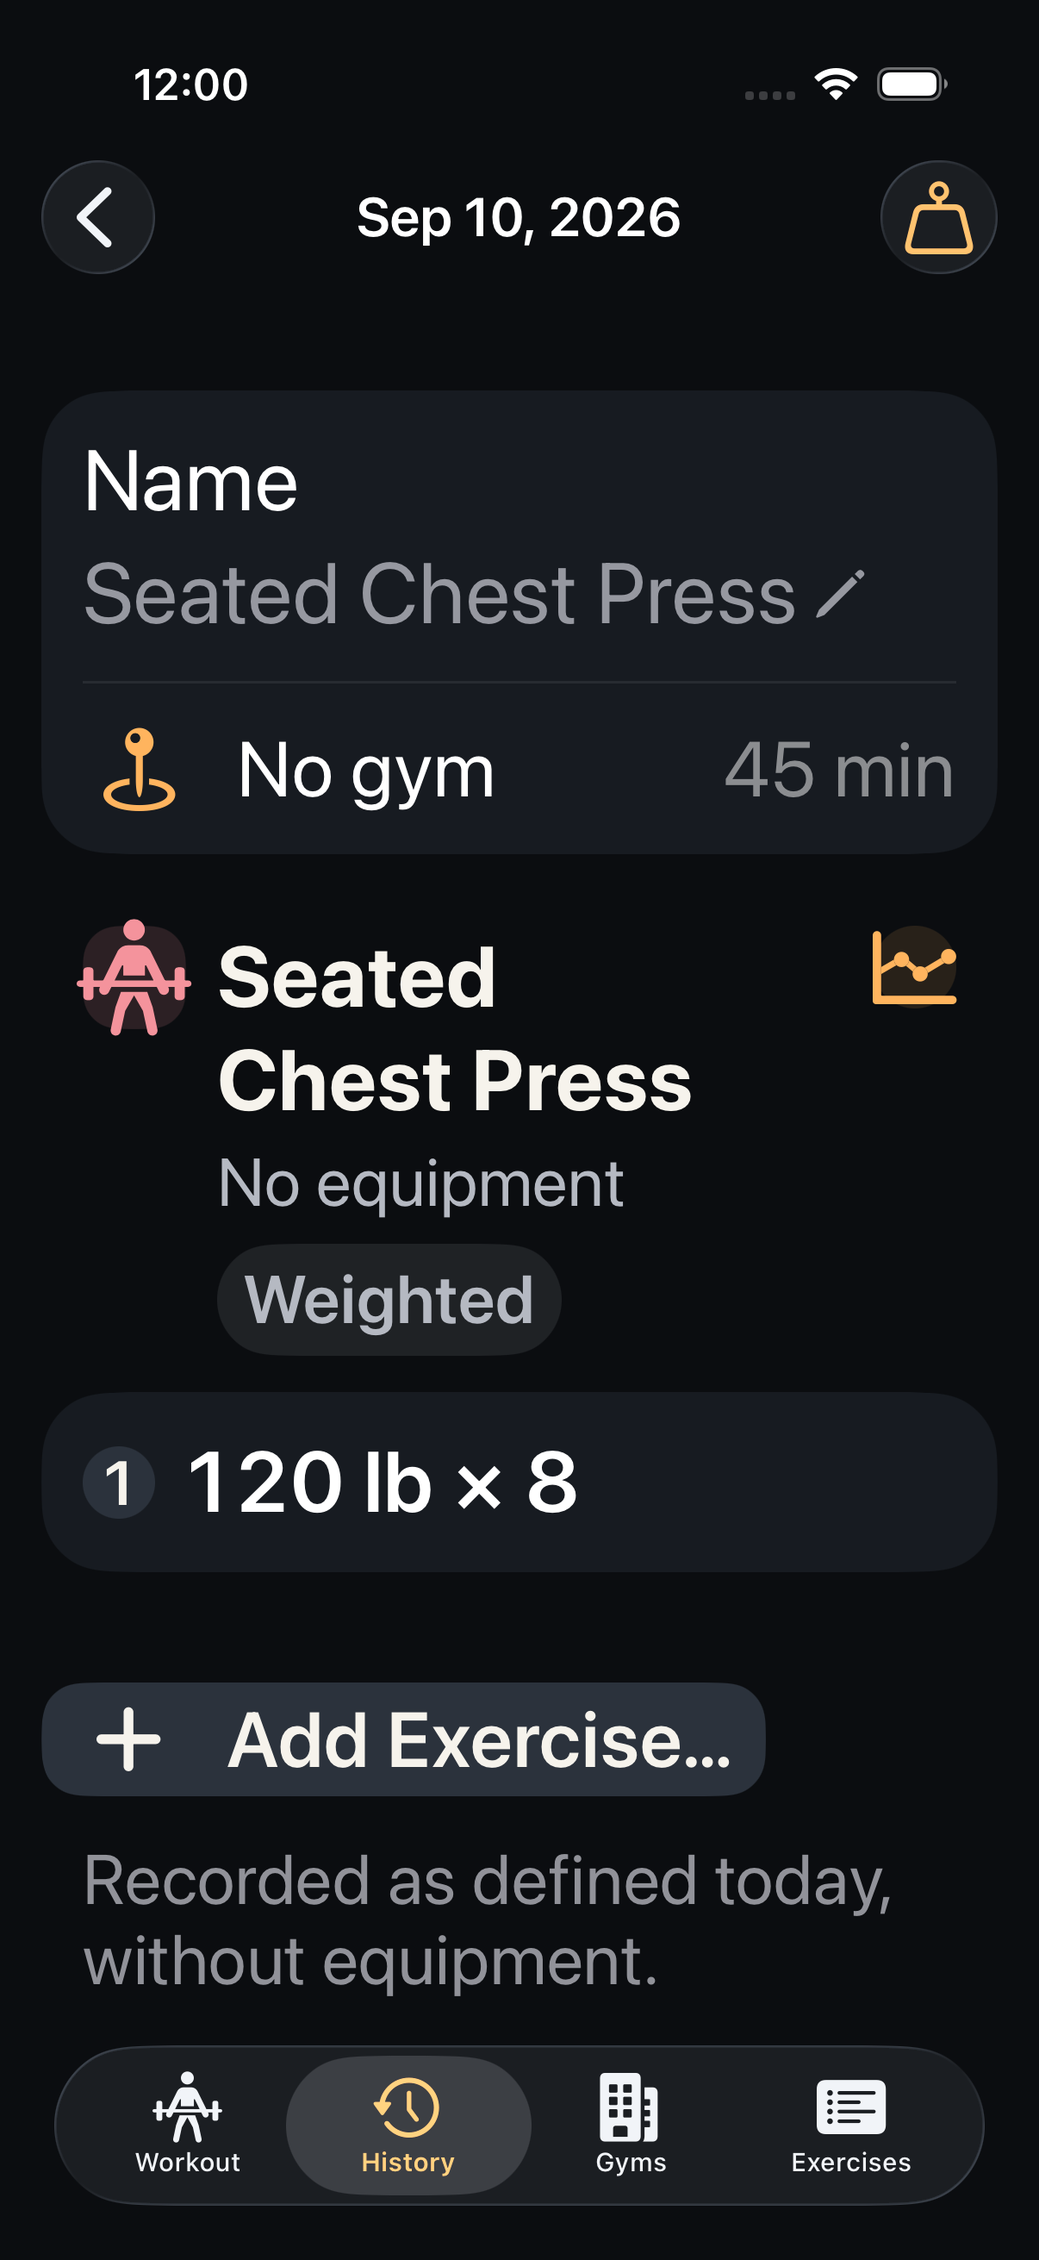
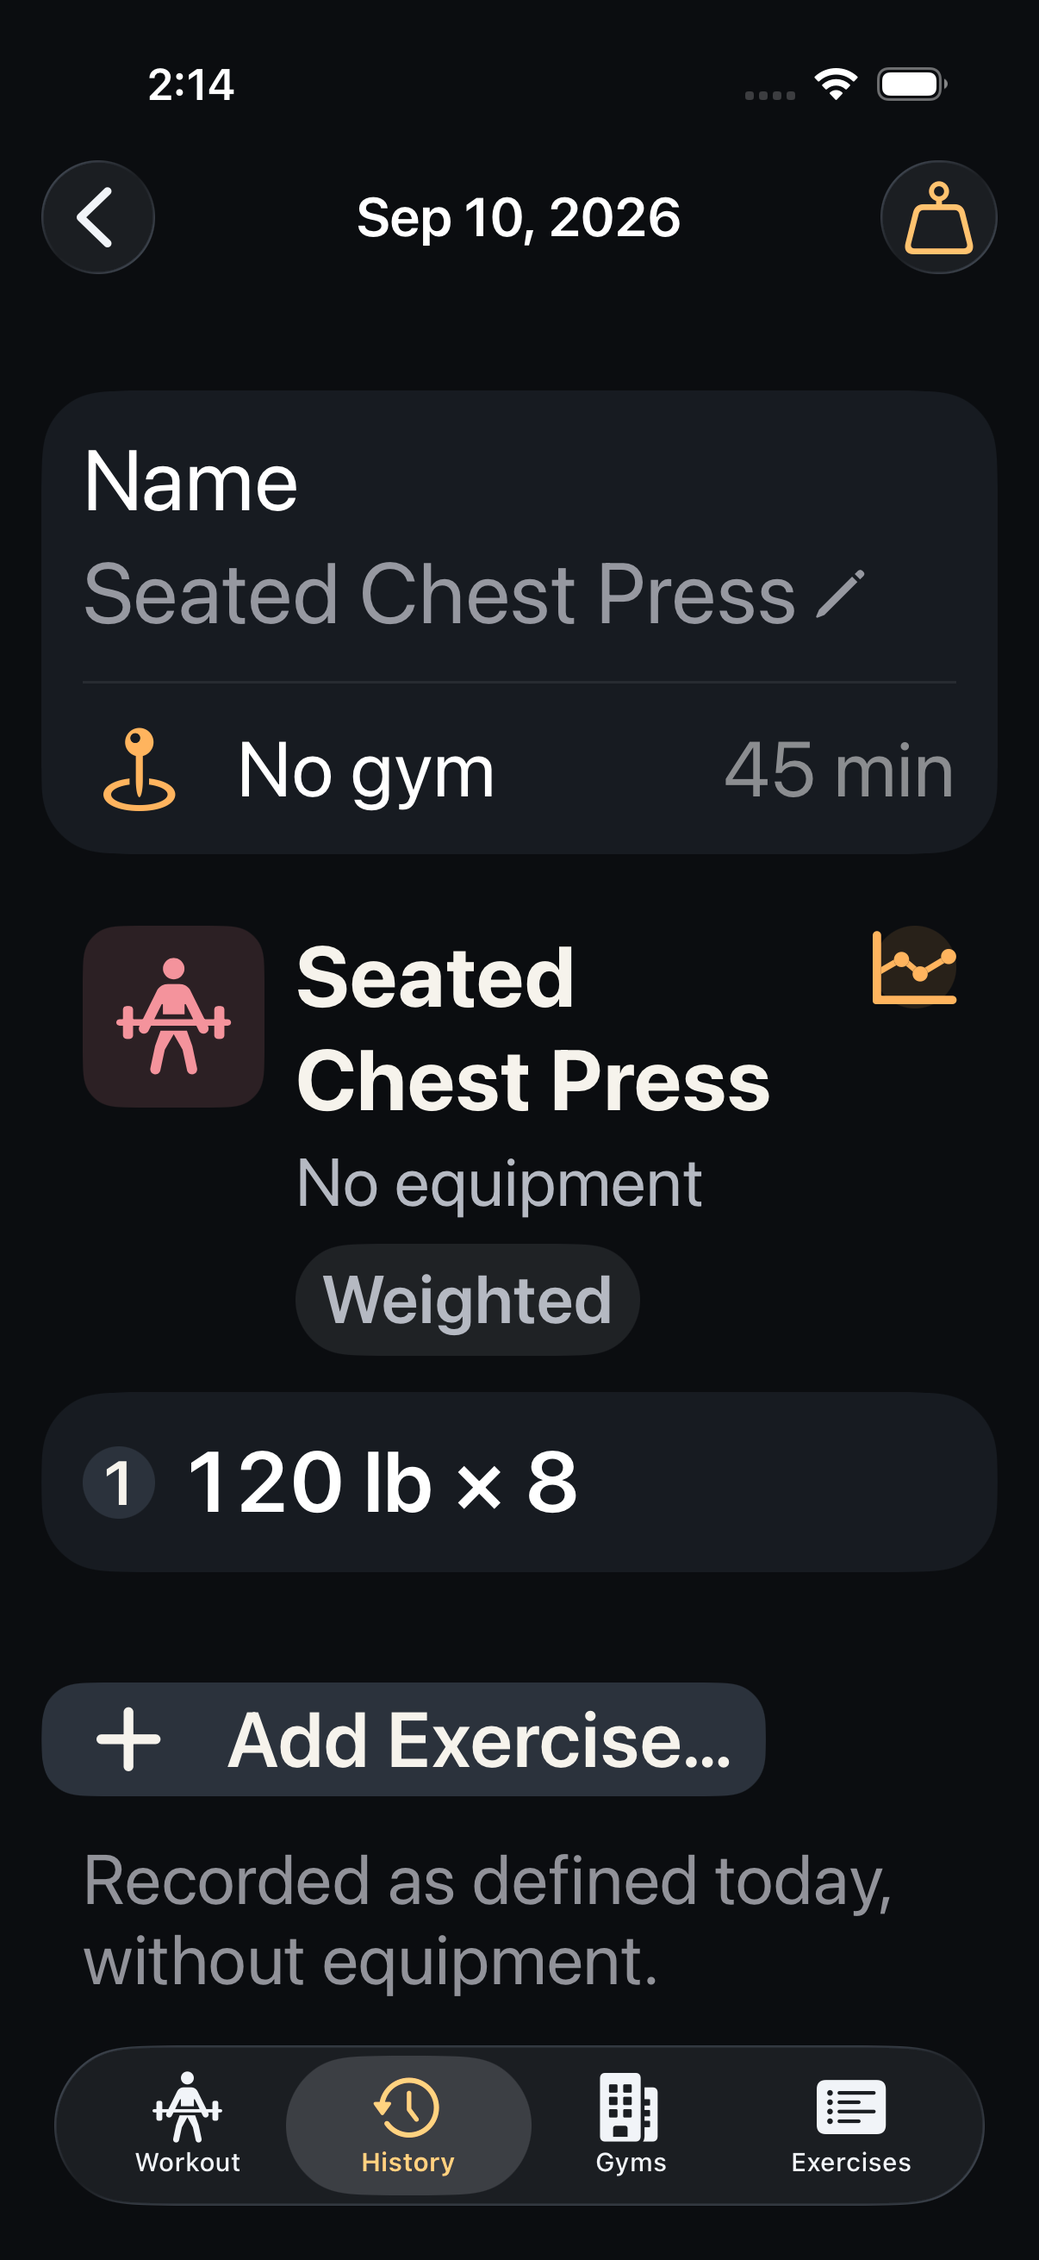
UI redesign 08: Exercises — MuscleIcon + equipment/load-type chips on every exercise row; themed pickers (exercise, add-by-machine, machine, bar) with .secondary/.primary actions; MuscleIcon's tile scales with Dynamic Type; AXL capture
ExerciseRow (shared by the tab, the picker and a machine's exercise list): icon, name, the body
area still said as a caption, tags as chips, the load type an accent chip when not the default;
chips stack at accessibility sizes and never break mid-word. Toolbar Save/Add/Done stay toolbar
buttons; "Use this bar" is the one in-list .primary. No new copy. Ticket file, screenshots/08/.

Verification: gates 16/16; after the AXL fixes 6/6.

Claude-Session: https://claude.ai/code/session_017NcHt6gES8nUD5LYcK9j4B

Changed region(s): [[0.0614, 0.4016, 0.7363, 0.587], [0.1227, 0.0309, 0.2454, 0.0618]]

diff --git a/WorkoutTracker/Features/ActiveWorkout/ExercisePickerSheet.swift b/WorkoutTracker/Features/ActiveWorkout/ExercisePickerSheet.swift
@@ -49,13 +49,19 @@ struct ExercisePickerSheet: View {
                         .accessibilityIdentifier("createExerciseFromSearch")
                     }
                 }
+                .listRowBackground(Theme.card)
                 Section {
                     Button("New Exercise…", systemImage: "plus") {
                         creating = NewExerciseRequest(name: trimmedSearch)
                     }
+                    .buttonStyle(.secondary)
                     .accessibilityIdentifier("newExercise")
+                    .listRowBackground(Color.clear)
+                    .listRowInsets(EdgeInsets(top: 8, leading: 0, bottom: 8, trailing: 0))
                 }
             }
+            .scrollContentBackground(.hidden)
+            .background(Theme.background)
             .searchable(text: $searchText, prompt: "Search exercises")
             .navigationTitle("Add Exercise")
             .navigationBarTitleDisplayMode(.inline)
@@ -102,29 +108,44 @@ struct ExerciseRow: View {
             tags: exercise.equipmentTypeTags, bodyArea: exercise.muscleGroup)
     }
 
-    private var subtitle: String {
-        ([bodyArea].compactMap { $0 } + tags.map(\.label)).joined(separator: " · ")
-    }
+    /// UI redesign ticket 08: the body area as a `MuscleIcon` (its glyph and
+    /// colour) beside the name, the equipment tags as chips, the load type as
+    /// a chip when it is not the default. The body area is still SAID in the
+    /// caption — the icon is accessibility-hidden — so a filtered list keeps
+    /// explaining itself to VoiceOver as it did. At accessibility sizes the
+    /// chips stack under the name (a chip never breaks mid-word) and the
+    /// load-type chip joins that column instead of squeezing the row.
+    @Environment(\.dynamicTypeSize) private var dynamicTypeSize
 
     var body: some View {
-        HStack {
-            VStack(alignment: .leading, spacing: 3) {
+        let stacked = dynamicTypeSize.isAccessibilitySize
+        let chips = stacked
+            ? AnyLayout(VStackLayout(alignment: .leading, spacing: 6))
+            : AnyLayout(HStackLayout(spacing: 6))
+        HStack(spacing: Theme.Space.medium) {
+            MuscleIcon(group: bodyArea)
+            VStack(alignment: .leading, spacing: 4) {
                 Text(name)
-                    .font(.body.weight(.medium))
-                Text(subtitle)
-                    .font(.caption)
-                    .foregroundStyle(.secondary)
+                    .font(Theme.cardTitle)
+                chips {
+                    if let bodyArea {
+                        Text(bodyArea)
+                            .font(.caption)
+                            .foregroundStyle(Theme.secondary)
+                    }
+                    ForEach(tags) { tag in
+                        Chip { Text(tag.label).fixedSize() }
+                    }
+                    if stacked, loadType != .weighted {
+                        Chip(tint: Theme.accent) { Text(loadType.badge).fixedSize() }
+                    }
+                }
             }
-            Spacer()
-            if loadType != .weighted {
-                Text(loadType.badge)
-                    .font(.caption2.weight(.semibold))
-                    .padding(.horizontal, 7)
-                    .padding(.vertical, 3)
-                    .background(Color(.tertiarySystemFill))
-                    .clipShape(Capsule())
-                    .foregroundStyle(.secondary)
+            Spacer(minLength: 0)
+            if !stacked, loadType != .weighted {
+                Chip(tint: Theme.accent) { Text(loadType.badge).fixedSize() }
             }
         }
+        .padding(.vertical, 2)
     }
 }

diff --git a/WorkoutTracker/Features/Exercises/ExercisesView.swift b/WorkoutTracker/Features/Exercises/ExercisesView.swift
@@ -54,13 +54,14 @@ struct ExercisesView: View {
                         HStack {
                             Label(filterSummary, systemImage: "line.3.horizontal.decrease.circle.fill")
                                 .font(.caption)
-                                .foregroundStyle(.secondary)
+                                .foregroundStyle(Theme.accent)
                             Spacer()
                             Button("Clear") { clearFilters() }
                                 .font(.caption.weight(.semibold))
                                 .accessibilityIdentifier("clearExerciseFilters")
                         }
                     }
+                    .listRowBackground(Theme.card)
                 }
                 Section {
                     ForEach(filtered) { exercise in
@@ -68,8 +69,8 @@ struct ExercisesView: View {
                             ExerciseRow(exercise: exercise)
                             if !exercise.isSeeded {
                                 Text("Custom")
-                                    .font(.caption2)
-                                    .foregroundStyle(.tertiary)
+                                    .font(Theme.label)
+                                    .foregroundStyle(Theme.tertiary)
                             }
                         }
                         .contextMenu {
@@ -98,14 +99,21 @@ struct ExercisesView: View {
                     }
                     if filtered.isEmpty {
                         Text("No exercises match")
-                            .foregroundStyle(.secondary)
+                            .foregroundStyle(Theme.secondary)
                             .accessibilityIdentifier("noExercisesMatch")
                     }
                     Button("Add Exercise…", systemImage: "plus") {
                         showingAddExercise = true
                     }
+                    .buttonStyle(.secondary)
+                    .listRowBackground(Color.clear)
+                    .listRowInsets(EdgeInsets(top: 8, leading: 0, bottom: 8, trailing: 0))
                 }
+                .listRowBackground(Theme.card)
+                .listRowSeparatorTint(Theme.hairline)
             }
+            .scrollContentBackground(.hidden)
+            .background(Theme.background)
             .searchable(text: $searchText, prompt: "Search exercises")
             .navigationTitle("Exercises")
             .toolbar {

diff --git a/WorkoutTracker/Features/ActiveWorkout/AddByMachineSheet.swift b/WorkoutTracker/Features/ActiveWorkout/AddByMachineSheet.swift
@@ -52,17 +52,23 @@ struct AddByMachineSheet: View {
                     }
                     if machines.isEmpty {
                         Text("No machines yet")
-                            .foregroundStyle(.secondary)
+                            .foregroundStyle(Theme.secondary)
                     }
                     Button("Add Machine…", systemImage: "plus") {
                         showingAddMachine = true
                     }
+                    .buttonStyle(.secondary)
+                    .listRowBackground(Color.clear)
+                    .listRowInsets(EdgeInsets(top: 8, leading: 0, bottom: 8, trailing: 0))
                 } header: {
                     if let gym {
                         Text("Machines at \(gym.name)")
                     }
                 }
+                .listRowBackground(Theme.card)
             }
+            .scrollContentBackground(.hidden)
+            .background(Theme.background)
             .navigationTitle("Add by Machine")
             .navigationBarTitleDisplayMode(.inline)
             .deleteMachineConfirmation($deletingMachine) { machine in
@@ -175,13 +181,19 @@ private struct MachineExerciseList: View {
                     .accessibilityIdentifier("createExerciseFromSearch")
                 }
             }
+            .listRowBackground(Theme.card)
             Section {
                 Button("New Exercise…", systemImage: "plus") {
                     creating = request(named: trimmedSearch)
                 }
+                .buttonStyle(.secondary)
                 .accessibilityIdentifier("newExercise")
+                .listRowBackground(Color.clear)
+                .listRowInsets(EdgeInsets(top: 8, leading: 0, bottom: 8, trailing: 0))
             }
         }
+        .scrollContentBackground(.hidden)
+        .background(Theme.background)
         .modifier(FullCatalogSearch(enabled: choice.linked == nil, text: $searchText))
         .navigationTitle(choice.linked == nil ? "Pick Exercise" : choice.machine.label)
         .navigationBarTitleDisplayMode(.inline)

diff --git a/WorkoutTracker/Features/ActiveWorkout/MachinePickerSheet.swift b/WorkoutTracker/Features/ActiveWorkout/MachinePickerSheet.swift
@@ -28,14 +28,18 @@ struct MachinePickerSheet: View {
                         }
                         if machines.isEmpty {
                             Text("No machines yet")
-                                .foregroundStyle(.secondary)
+                                .foregroundStyle(Theme.secondary)
                         }
                         Button("Add Machine…", systemImage: "plus") {
                             showingAddMachine = true
                         }
+                        .buttonStyle(.secondary)
+                        .listRowBackground(Color.clear)
+                        .listRowInsets(EdgeInsets(top: 8, leading: 0, bottom: 8, trailing: 0))
                     } header: {
                         Text("Machines at \(gym.name)")
                     }
+                    .listRowBackground(Theme.card)
                 }
 
                 Section {
@@ -86,7 +90,10 @@ struct MachinePickerSheet: View {
                         Text("A completed set locks equipment; a change continues in a new entry.")
                     }
                 }
+                .listRowBackground(Theme.card)
             }
+            .scrollContentBackground(.hidden)
+            .background(Theme.background)
             .navigationTitle("Equipment")
             .navigationBarTitleDisplayMode(.inline)
             .toolbar {

diff --git a/WorkoutTracker/Features/Design/MuscleGroupStyle.swift b/WorkoutTracker/Features/Design/MuscleGroupStyle.swift
@@ -29,13 +29,17 @@ struct MuscleGroupStyle {
 
 struct MuscleIcon: View {
     var group: String?
+    /// The tile grows with the glyph (`.title3` scales with Dynamic Type) —
+    /// at AccessibilityL a fixed 40 pt tile was smaller than its symbol
+    /// (UI redesign ticket 08).
+    @ScaledMetric(relativeTo: .title3) private var side: CGFloat = 40
 
     var body: some View {
         let style = MuscleGroupStyle.resolve(group)
         Image(systemName: style.symbol)
             .font(.title3.weight(.semibold))
             .foregroundStyle(style.color)
-            .frame(width: 40, height: 40)
+            .frame(width: side, height: side)
             .background(style.color.opacity(0.14),
                         in: RoundedRectangle(cornerRadius: 14))
             .accessibilityHidden(true)

diff --git a/WorkoutTrackerUITests/RedesignScreenshotUITests.swift b/WorkoutTrackerUITests/RedesignScreenshotUITests.swift
@@ -193,6 +193,17 @@ final class RedesignScreenshotUITests: XCTestCase {
         shoot("redesign-06-gyms-axl")
     }
 
+    /// The Exercises tab and the mid-workout exercise picker at AccessibilityL
+    /// (ticket 08): icon, name, body area and tag chips must wrap, not clip.
+    func test07_exercisesLargeText() {
+        app.launchArguments = ["-uiTestReset",
+                               "-UIPreferredContentSizeCategoryName", "UICTContentSizeCategoryAccessibilityL"]
+        app.launch()
+        app.tabBars.buttons["Exercises"].tap()
+        XCTAssertTrue(app.searchFields.firstMatch.waitForExistence(timeout: 10))
+        shoot("redesign-07-exercises-axl")
+    }
+
     /// Empty states: History and Gyms on a fresh store.
     func test08_emptyStates() {
         launch()

diff --git a/WorkoutTracker/Features/ActiveWorkout/BarPickerSheet.swift b/WorkoutTracker/Features/ActiveWorkout/BarPickerSheet.swift
@@ -58,12 +58,17 @@ struct BarPickerSheet: View {
                             dismiss()
                         }
                     }
+                    .buttonStyle(.primary)
                     .disabled(!isCustomValid)
                     .accessibilityIdentifier("barCustomApply")
+                    .listRowBackground(Color.clear)
+                    .listRowInsets(EdgeInsets(top: 8, leading: 0, bottom: 8, trailing: 0))
                 } header: {
                     Text("Custom bar")
                 }
             }
+            .scrollContentBackground(.hidden)
+            .background(Theme.background)
             .navigationTitle("Bar")
             .navigationBarTitleDisplayMode(.inline)
             .toolbar {

diff --git a/.scratch/ui-redesign/issues/08-exercises-and-sheets.md b/.scratch/ui-redesign/issues/08-exercises-and-sheets.md
@@ -1,0 +1,49 @@
+# 08 — Exercises tab and the pickers/sheets
+
+Status: in review — gates green, screenshots sent; Codex round 1 and the full suite pending
+
+Spec: `.scratch/ui-redesign/spec.md` ticket 08, on the chosen Ink / Amber system.
+
+## What changed
+
+- `ExerciseRow` (`Features/ActiveWorkout/ExercisePickerSheet.swift`, shared by the Exercises
+  tab, the mid-workout exercise picker and a machine's exercise list): a `MuscleIcon` for the
+  body area (glyph and colour; accessibility-hidden), the name in `cardTitle`, the body area
+  still SAID as a caption beside the equipment tags, which are now `Chip`s; the load type a
+  `Chip` in the accent when it is not the default (was a grey capsule). The strings are the
+  same words as before; the " · " joiner is gone (they are separate elements now).
+- `ExercisesView`: rows on `Theme.card`, hairline separators, the filter banner on the card
+  colour with the summary in the accent, "Custom" in `label`, "Add Exercise…" `.secondary`
+  (74 seeded rows are always beside it); filter ids, `clearExerciseFilters`, `noExercisesMatch`
+  and the "Search exercises" prompt unchanged.
+- `ExercisePickerSheet`, `AddByMachineSheet` (both lists), `MachinePickerSheet`,
+  `BarPickerSheet`: lists on `Theme.background`, rows on `Theme.card`; "New Exercise…" and
+  "Add Machine…" `.secondary`; "Use this bar" `.primary` (the one in-list primary action —
+  every other sheet's Save/Add/Done is a toolbar button and stays one). `exerciseOption.*`,
+  `machineOption.*`, `newExercise`, `createExerciseFromSearch`, `barOption.*`,
+  `barCustomApply`, `logAsCounterpart` unchanged.
+- Untouched: `NewExerciseSheet`, `ExercisePresetsSheet`, `EditExerciseLoadTypeSheet`,
+  `PreviousPerformanceSheet`, `ExerciseRestSettingsSheet`, `MaxHeartRateSheet` — stock Forms
+  whose primary actions are toolbar buttons; nothing in them needs a token.
+- `MuscleIcon` (`Features/Design/MuscleGroupStyle.swift`): the tile is a `@ScaledMetric`
+  (40 pt relative to `.title3`), so it grows with its glyph — at AccessibilityL the fixed tile
+  was smaller than the symbol. Every host benefits (Start's template cards, History's detail
+  header — its AXL capture recaptured).
+- At accessibility sizes the row's chips stack under the name and the load-type chip joins that
+  column; a chip never breaks mid-word (`fixedSize`). The first AXL capture showed "Ma chi ne".
+- New capture `test07_exercisesLargeText` (`07-exercises-axl`).
+- No new copy.
+
+## Acceptance criteria
+
+- Screenshots `07-exercises`, `07-exercises-axl` reviewed by the user.
+- Gates green: `ExercisePresetUITests`, `DumbbellCounterpartUITests`, `CoreLoopUITests`,
+  `BarbellUITests`; unit suite; full UI suite before merge; Codex clear.
+
+## Verification (2026-09-11)
+
+Gates on `ui-redesign-08`: `ExercisePresetUITests` 3/3, `DumbbellCounterpartUITests` 1/1,
+`CoreLoopUITests` 9/9, `BarbellUITests` 2/2, captures test06 + test07_exercisesLargeText —
+16/16; after the AXL fixes (chip stacking, scaled tile): DumbbellCounterpart, ExercisePreset,
+the two captures + `test05_historyLargeText` (MuscleIcon host) — 6/6. Screenshots
+`screenshots/08/` — sent to the user. Full suite: see STATE.

diff --git a/.scratch/ui-redesign/codex-review-08-prompt.md b/.scratch/ui-redesign/codex-review-08-prompt.md
@@ -1,0 +1,38 @@
+Round 1 (T6) of UI-redesign ticket 08 — the Exercises tab and the pickers/sheets on the Ink /
+Amber design system (which YOU built; Claude built this ticket, so you review). Ticket:
+.scratch/ui-redesign/issues/08-exercises-and-sheets.md; the plan: .scratch/ui-redesign/spec.md
+(ticket 08 and the constraints — copy policy, ids/strings the tests read). Boundary: main..HEAD
+on branch ui-redesign-08 (main = f2bfa7a, ticket 07).
+
+Files: WorkoutTracker/Features/ActiveWorkout/ExercisePickerSheet.swift (ExerciseRow + the
+picker), Features/Design/MuscleGroupStyle.swift (MuscleIcon's tile is now a @ScaledMetric —
+shared with Start's template cards and History's detail header), Features/Exercises/ExercisesView.swift, Features/ActiveWorkout/AddByMachineSheet.swift,
+MachinePickerSheet.swift, BarPickerSheet.swift, WorkoutTrackerUITests/RedesignScreenshotUITests.swift.
+Screenshots: .scratch/ui-redesign/screenshots/08/ (07-exercises, 07-exercises-axl).
+
+Scope:
+1. ExerciseRow lost its " · "-joined subtitle: body area and tags are separate elements now.
+   Does any test, or VoiceOver, depend on the joined string? Is a row with FOUR tags
+   (barbell · dumbbell · cable · smith) still one line at the default size? At accessibility
+   sizes the chips STACK under the name (AnyLayout) and each is `fixedSize` — see
+   07-exercises-axl.png; a four-tag row becomes five stacked chips: acceptable? The chips carry `tag.label` — is a chip per tag noise on a
+   74-row list, or right?
+2. The load-type chip is in the ACCENT (`Chip(tint: Theme.accent)`): amber marks "not the
+   default load type" — the same colour the primary actions use. A problem?
+3. MuscleIcon on every row of a 74-row searchable list: any cost (MuscleGroupStyle.resolve is a
+   dictionary lookup) or a visual monotony worth flagging?
+4. `.listRowBackground(Theme.card)` on Sections that contain a `.buttonStyle(.plain)` Button
+   row with a `.contextMenu` (ExercisesView) — tap/long-press surfaces unchanged?
+5. Sheets: the plan says "sheets' primary actions `.primary`". Most are toolbar Save/Add/Done
+   and were left as toolbar buttons; only "Use this bar" is in-list and is `.primary`. Accept
+   that reading, or do you want the Forms' toolbar actions restyled?
+6. Copy policy — new `Text("…")`? Filter ids, the "Search exercises" prompt, `noExercisesMatch`,
+   `createExerciseFromSearch` unchanged?
+7. Gates: ExercisePreset (reads `exerciseOption.*`, preset chips), DumbbellCounterpart
+   (`staticTexts["Bench Press"]` inside `exerciseOption.Bench Press` — the name is still a
+   staticText child?), CoreLoop create-from-search, Barbell (`barCustomApply` now `.primary`,
+   still `.disabled` until valid).
+
+Do NOT run xcodebuild or simctl (the simulator is in use). Review by inspection; verification is
+in the ticket. Report by severity with file:line, or say "clear" in one paragraph. Do not modify
+source files. Write to .scratch/ui-redesign/codex-review-08.md
